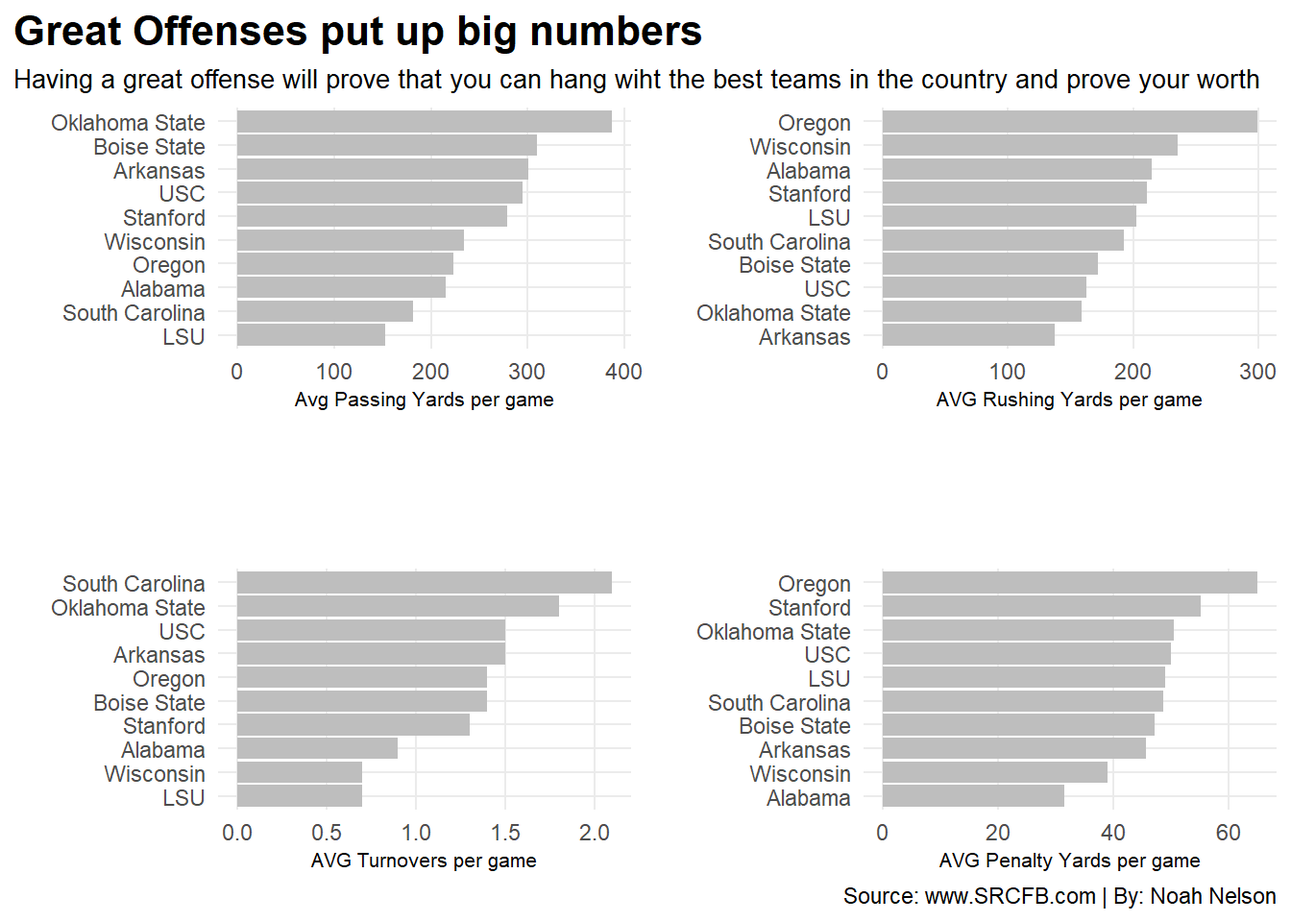
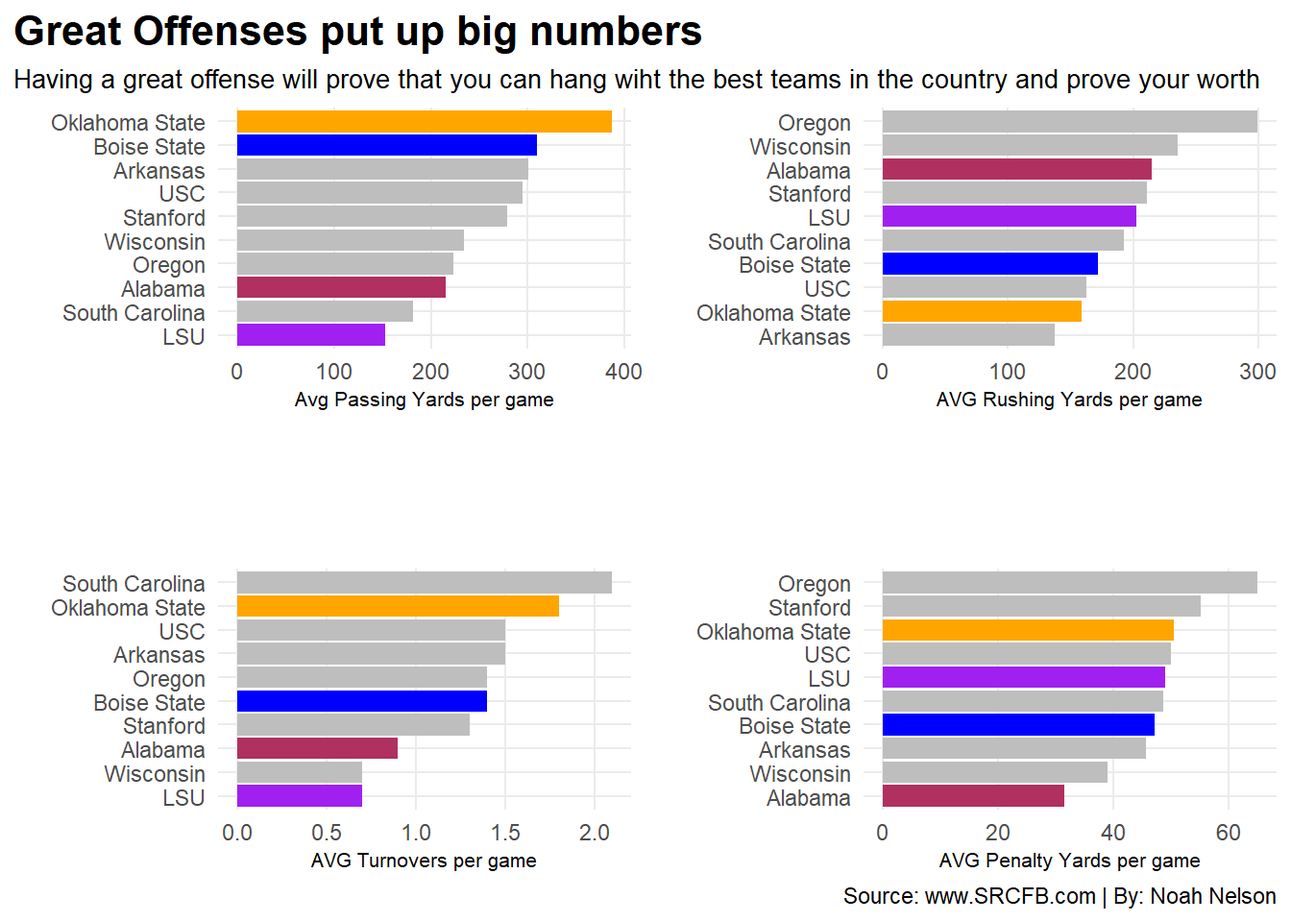
color

diff --git a/posts/The-question-of-the-2011-college-football-season/index.html b/posts/The-question-of-the-2011-college-football-season/index.html
@@ -250,78 +250,106 @@ pre > code.sourceCode > span > a:first-child::before { text-decoration: underlin
 <summary>Code</summary>
 <div class="sourceCode cell-code" id="cb5"><pre class="sourceCode r code-with-copy"><code class="sourceCode r"><span id="cb5-1"><a href="#cb5-1" aria-hidden="true" tabindex="-1"></a>teamoffense <span class="ot">&lt;-</span> <span class="fu">read_csv</span>(<span class="st">"data/teamoffense.csv"</span>)</span>
 <span id="cb5-2"><a href="#cb5-2" aria-hidden="true" tabindex="-1"></a></span>
-<span id="cb5-3"><a href="#cb5-3" aria-hidden="true" tabindex="-1"></a>top10offense<span class="ot">&lt;-</span>teamoffense <span class="sc">|&gt;</span></span>
-<span id="cb5-4"><a href="#cb5-4" aria-hidden="true" tabindex="-1"></a> <span class="fu">filter</span>(SCHOOL<span class="sc">==</span><span class="st">"Alabama"</span><span class="sc">|</span>SCHOOL<span class="sc">==</span><span class="st">"LSU"</span><span class="sc">|</span>SCHOOL<span class="sc">==</span><span class="st">"Oklahoma State"</span><span class="sc">|</span>SCHOOL<span class="sc">==</span><span class="st">"Oregon"</span><span class="sc">|</span>SCHOOL<span class="sc">==</span><span class="st">"Arkansas"</span><span class="sc">|</span>SCHOOL<span class="sc">==</span><span class="st">"USC"</span><span class="sc">|</span>SCHOOL<span class="sc">==</span><span class="st">"Stanford"</span><span class="sc">|</span>SCHOOL<span class="sc">==</span><span class="st">"Boise State"</span><span class="sc">|</span>SCHOOL<span class="sc">==</span><span class="st">"South Carolina"</span><span class="sc">|</span>SCHOOL<span class="sc">==</span><span class="st">"Wisconsin"</span>) </span>
+<span id="cb5-3"><a href="#cb5-3" aria-hidden="true" tabindex="-1"></a>al <span class="ot">&lt;-</span> teamoffense<span class="sc">|&gt;</span></span>
+<span id="cb5-4"><a href="#cb5-4" aria-hidden="true" tabindex="-1"></a>  <span class="fu">filter</span>(SCHOOL <span class="sc">==</span> <span class="st">"Alabama"</span>)</span>
 <span id="cb5-5"><a href="#cb5-5" aria-hidden="true" tabindex="-1"></a></span>
-<span id="cb5-6"><a href="#cb5-6" aria-hidden="true" tabindex="-1"></a>bar1 <span class="ot">&lt;-</span> <span class="fu">ggplot</span>() <span class="sc">+</span> </span>
-<span id="cb5-7"><a href="#cb5-7" aria-hidden="true" tabindex="-1"></a>  <span class="fu">geom_bar</span>(<span class="at">data=</span>top10offense, <span class="fu">aes</span>(<span class="at">x=</span><span class="fu">reorder</span>(SCHOOL,PassingYDS ), <span class="at">weight=</span>PassingYDS), <span class="at">fill=</span><span class="st">"gray"</span>) <span class="sc">+</span> </span>
-<span id="cb5-8"><a href="#cb5-8" aria-hidden="true" tabindex="-1"></a>  <span class="fu">coord_flip</span>() <span class="sc">+</span> </span>
-<span id="cb5-9"><a href="#cb5-9" aria-hidden="true" tabindex="-1"></a>  <span class="fu">labs</span>(<span class="at">title=</span><span class="st">"Great Offenses put up big numbers"</span>, </span>
-<span id="cb5-10"><a href="#cb5-10" aria-hidden="true" tabindex="-1"></a>       <span class="at">subtitle =</span> <span class="st">"Having a great offense will prove that you can hang wiht the best teams in the country and prove your worth"</span>,  </span>
-<span id="cb5-11"><a href="#cb5-11" aria-hidden="true" tabindex="-1"></a>       <span class="at">x=</span><span class="st">""</span>, <span class="at">y=</span><span class="st">"Avg Passing Yards per game"</span>, </span>
-<span id="cb5-12"><a href="#cb5-12" aria-hidden="true" tabindex="-1"></a>       <span class="at">caption =</span> <span class="st">""</span>) <span class="sc">+</span> </span>
-<span id="cb5-13"><a href="#cb5-13" aria-hidden="true" tabindex="-1"></a>  <span class="fu">theme_minimal</span>() <span class="sc">+</span> </span>
-<span id="cb5-14"><a href="#cb5-14" aria-hidden="true" tabindex="-1"></a>  <span class="fu">theme</span>(</span>
-<span id="cb5-15"><a href="#cb5-15" aria-hidden="true" tabindex="-1"></a>    <span class="at">plot.title =</span> <span class="fu">element_text</span>(<span class="at">size =</span> <span class="dv">16</span>, <span class="at">face =</span> <span class="st">"bold"</span>),</span>
-<span id="cb5-16"><a href="#cb5-16" aria-hidden="true" tabindex="-1"></a>    <span class="at">axis.title =</span> <span class="fu">element_text</span>(<span class="at">size =</span> <span class="dv">8</span>), </span>
-<span id="cb5-17"><a href="#cb5-17" aria-hidden="true" tabindex="-1"></a>    <span class="at">plot.subtitle =</span> <span class="fu">element_text</span>(<span class="at">size=</span><span class="dv">10</span>), </span>
-<span id="cb5-18"><a href="#cb5-18" aria-hidden="true" tabindex="-1"></a>    <span class="at">panel.grid.minor =</span> <span class="fu">element_blank</span>(),</span>
-<span id="cb5-19"><a href="#cb5-19" aria-hidden="true" tabindex="-1"></a>    <span class="at">plot.title.position =</span> <span class="st">"plot"</span></span>
-<span id="cb5-20"><a href="#cb5-20" aria-hidden="true" tabindex="-1"></a>    )</span>
-<span id="cb5-21"><a href="#cb5-21" aria-hidden="true" tabindex="-1"></a></span>
-<span id="cb5-22"><a href="#cb5-22" aria-hidden="true" tabindex="-1"></a></span>
-<span id="cb5-23"><a href="#cb5-23" aria-hidden="true" tabindex="-1"></a>bar2 <span class="ot">&lt;-</span> <span class="fu">ggplot</span>() <span class="sc">+</span> </span>
-<span id="cb5-24"><a href="#cb5-24" aria-hidden="true" tabindex="-1"></a>  <span class="fu">geom_bar</span>(<span class="at">data=</span>top10offense, <span class="fu">aes</span>(<span class="at">x=</span><span class="fu">reorder</span>(SCHOOL, RushingYDS),</span>
-<span id="cb5-25"><a href="#cb5-25" aria-hidden="true" tabindex="-1"></a><span class="at">weight=</span>RushingYDS), <span class="at">fill=</span><span class="st">"gray"</span>) <span class="sc">+</span></span>
-<span id="cb5-26"><a href="#cb5-26" aria-hidden="true" tabindex="-1"></a>  <span class="fu">coord_flip</span>()<span class="sc">+</span> </span>
-<span id="cb5-27"><a href="#cb5-27" aria-hidden="true" tabindex="-1"></a>  <span class="fu">labs</span>(<span class="at">title =</span> <span class="st">""</span>, </span>
-<span id="cb5-28"><a href="#cb5-28" aria-hidden="true" tabindex="-1"></a>       <span class="at">subtitle=</span> <span class="st">""</span>, </span>
-<span id="cb5-29"><a href="#cb5-29" aria-hidden="true" tabindex="-1"></a>       <span class="at">x=</span><span class="st">""</span>, <span class="at">y=</span><span class="st">"AVG Rushing Yards per game"</span>,  </span>
-<span id="cb5-30"><a href="#cb5-30" aria-hidden="true" tabindex="-1"></a>       <span class="at">caption=</span><span class="st">""</span>) <span class="sc">+</span> </span>
-<span id="cb5-31"><a href="#cb5-31" aria-hidden="true" tabindex="-1"></a>  <span class="fu">theme_minimal</span>() <span class="sc">+</span> </span>
-<span id="cb5-32"><a href="#cb5-32" aria-hidden="true" tabindex="-1"></a>  <span class="fu">theme</span>(</span>
-<span id="cb5-33"><a href="#cb5-33" aria-hidden="true" tabindex="-1"></a>    <span class="at">plot.title =</span> <span class="fu">element_text</span>(<span class="at">size =</span> <span class="dv">16</span>, <span class="at">face =</span> <span class="st">"bold"</span>),</span>
-<span id="cb5-34"><a href="#cb5-34" aria-hidden="true" tabindex="-1"></a>    <span class="at">axis.title =</span> <span class="fu">element_text</span>(<span class="at">size =</span> <span class="dv">8</span>), </span>
-<span id="cb5-35"><a href="#cb5-35" aria-hidden="true" tabindex="-1"></a>    <span class="at">plot.subtitle =</span> <span class="fu">element_text</span>(<span class="at">size=</span><span class="dv">10</span>), </span>
-<span id="cb5-36"><a href="#cb5-36" aria-hidden="true" tabindex="-1"></a>    <span class="at">panel.grid.minor =</span> <span class="fu">element_blank</span>(),</span>
-<span id="cb5-37"><a href="#cb5-37" aria-hidden="true" tabindex="-1"></a>    <span class="at">plot.title.position =</span> <span class="st">"plot"</span></span>
-<span id="cb5-38"><a href="#cb5-38" aria-hidden="true" tabindex="-1"></a>    )</span>
-<span id="cb5-39"><a href="#cb5-39" aria-hidden="true" tabindex="-1"></a></span>
-<span id="cb5-40"><a href="#cb5-40" aria-hidden="true" tabindex="-1"></a></span>
-<span id="cb5-41"><a href="#cb5-41" aria-hidden="true" tabindex="-1"></a>bar3 <span class="ot">&lt;-</span> <span class="fu">ggplot</span>() <span class="sc">+</span> </span>
-<span id="cb5-42"><a href="#cb5-42" aria-hidden="true" tabindex="-1"></a>  <span class="fu">geom_bar</span>(<span class="at">data=</span>top10offense, <span class="fu">aes</span>(<span class="at">x=</span><span class="fu">reorder</span>(SCHOOL, TurnoversPERG), <span class="at">weight=</span>TurnoversPERG), <span class="at">fill=</span><span class="st">"gray"</span>) <span class="sc">+</span> </span>
-<span id="cb5-43"><a href="#cb5-43" aria-hidden="true" tabindex="-1"></a>  <span class="fu">coord_flip</span>()<span class="sc">+</span> </span>
-<span id="cb5-44"><a href="#cb5-44" aria-hidden="true" tabindex="-1"></a>  <span class="fu">labs</span>(<span class="at">title =</span> <span class="st">""</span>, </span>
-<span id="cb5-45"><a href="#cb5-45" aria-hidden="true" tabindex="-1"></a>       <span class="at">subtitle=</span> <span class="st">""</span>, </span>
-<span id="cb5-46"><a href="#cb5-46" aria-hidden="true" tabindex="-1"></a>       <span class="at">x=</span><span class="st">""</span>, <span class="at">y=</span><span class="st">"AVG Turnovers per game"</span>,  </span>
-<span id="cb5-47"><a href="#cb5-47" aria-hidden="true" tabindex="-1"></a>       <span class="at">caption=</span><span class="st">""</span>) <span class="sc">+</span> </span>
-<span id="cb5-48"><a href="#cb5-48" aria-hidden="true" tabindex="-1"></a>  <span class="fu">theme_minimal</span>() <span class="sc">+</span> </span>
-<span id="cb5-49"><a href="#cb5-49" aria-hidden="true" tabindex="-1"></a>  <span class="fu">theme</span>(</span>
-<span id="cb5-50"><a href="#cb5-50" aria-hidden="true" tabindex="-1"></a>    <span class="at">plot.title =</span> <span class="fu">element_text</span>(<span class="at">size =</span> <span class="dv">16</span>, <span class="at">face =</span> <span class="st">"bold"</span>),</span>
-<span id="cb5-51"><a href="#cb5-51" aria-hidden="true" tabindex="-1"></a>    <span class="at">axis.title =</span> <span class="fu">element_text</span>(<span class="at">size =</span> <span class="dv">8</span>), </span>
-<span id="cb5-52"><a href="#cb5-52" aria-hidden="true" tabindex="-1"></a>    <span class="at">plot.subtitle =</span> <span class="fu">element_text</span>(<span class="at">size=</span><span class="dv">10</span>), </span>
-<span id="cb5-53"><a href="#cb5-53" aria-hidden="true" tabindex="-1"></a>    <span class="at">panel.grid.minor =</span> <span class="fu">element_blank</span>(),</span>
-<span id="cb5-54"><a href="#cb5-54" aria-hidden="true" tabindex="-1"></a>    <span class="at">plot.title.position =</span> <span class="st">"plot"</span></span>
-<span id="cb5-55"><a href="#cb5-55" aria-hidden="true" tabindex="-1"></a>    )</span>
-<span id="cb5-56"><a href="#cb5-56" aria-hidden="true" tabindex="-1"></a></span>
-<span id="cb5-57"><a href="#cb5-57" aria-hidden="true" tabindex="-1"></a></span>
-<span id="cb5-58"><a href="#cb5-58" aria-hidden="true" tabindex="-1"></a>bar4 <span class="ot">&lt;-</span> <span class="fu">ggplot</span>() <span class="sc">+</span> </span>
-<span id="cb5-59"><a href="#cb5-59" aria-hidden="true" tabindex="-1"></a>  <span class="fu">geom_bar</span>(<span class="at">data=</span>top10offense, <span class="fu">aes</span>(<span class="at">x=</span><span class="fu">reorder</span>(SCHOOL, PenaltiesYDSG), <span class="at">weight=</span>PenaltiesYDSG), <span class="at">fill=</span><span class="st">"gray"</span>) <span class="sc">+</span> </span>
-<span id="cb5-60"><a href="#cb5-60" aria-hidden="true" tabindex="-1"></a>  <span class="fu">coord_flip</span>()<span class="sc">+</span> </span>
-<span id="cb5-61"><a href="#cb5-61" aria-hidden="true" tabindex="-1"></a>  <span class="fu">labs</span>(<span class="at">title =</span> <span class="st">""</span>, </span>
-<span id="cb5-62"><a href="#cb5-62" aria-hidden="true" tabindex="-1"></a>       <span class="at">subtitle=</span> <span class="st">""</span>, </span>
-<span id="cb5-63"><a href="#cb5-63" aria-hidden="true" tabindex="-1"></a>       <span class="at">x=</span><span class="st">""</span>, <span class="at">y=</span><span class="st">"AVG Penalty Yards per game"</span>,  </span>
-<span id="cb5-64"><a href="#cb5-64" aria-hidden="true" tabindex="-1"></a>       <span class="at">caption=</span><span class="st">"Source: www.SRCFB.com | By: Noah Nelson"</span>) <span class="sc">+</span> </span>
-<span id="cb5-65"><a href="#cb5-65" aria-hidden="true" tabindex="-1"></a>  <span class="fu">theme_minimal</span>() <span class="sc">+</span> </span>
-<span id="cb5-66"><a href="#cb5-66" aria-hidden="true" tabindex="-1"></a>  <span class="fu">theme</span>(</span>
-<span id="cb5-67"><a href="#cb5-67" aria-hidden="true" tabindex="-1"></a>    <span class="at">plot.title =</span> <span class="fu">element_text</span>(<span class="at">size =</span> <span class="dv">16</span>, <span class="at">face =</span> <span class="st">"bold"</span>),</span>
-<span id="cb5-68"><a href="#cb5-68" aria-hidden="true" tabindex="-1"></a>    <span class="at">axis.title =</span> <span class="fu">element_text</span>(<span class="at">size =</span> <span class="dv">8</span>), </span>
-<span id="cb5-69"><a href="#cb5-69" aria-hidden="true" tabindex="-1"></a>    <span class="at">plot.subtitle =</span> <span class="fu">element_text</span>(<span class="at">size=</span><span class="dv">10</span>), </span>
-<span id="cb5-70"><a href="#cb5-70" aria-hidden="true" tabindex="-1"></a>    <span class="at">panel.grid.minor =</span> <span class="fu">element_blank</span>(),</span>
-<span id="cb5-71"><a href="#cb5-71" aria-hidden="true" tabindex="-1"></a>    <span class="at">plot.title.position =</span> <span class="st">"plot"</span></span>
-<span id="cb5-72"><a href="#cb5-72" aria-hidden="true" tabindex="-1"></a>    )</span>
-<span id="cb5-73"><a href="#cb5-73" aria-hidden="true" tabindex="-1"></a></span>
-<span id="cb5-74"><a href="#cb5-74" aria-hidden="true" tabindex="-1"></a><span class="fu">plot_grid</span>(bar1, bar2, bar3, bar4) </span></code><button title="Copy to Clipboard" class="code-copy-button"><i class="bi"></i></button></pre></div>
+<span id="cb5-6"><a href="#cb5-6" aria-hidden="true" tabindex="-1"></a>lsu <span class="ot">&lt;-</span> teamoffense<span class="sc">|&gt;</span></span>
+<span id="cb5-7"><a href="#cb5-7" aria-hidden="true" tabindex="-1"></a>  <span class="fu">filter</span>(SCHOOL <span class="sc">==</span> <span class="st">"LSU"</span>)</span>
+<span id="cb5-8"><a href="#cb5-8" aria-hidden="true" tabindex="-1"></a></span>
+<span id="cb5-9"><a href="#cb5-9" aria-hidden="true" tabindex="-1"></a>oks <span class="ot">&lt;-</span> teamoffense<span class="sc">|&gt;</span></span>
+<span id="cb5-10"><a href="#cb5-10" aria-hidden="true" tabindex="-1"></a>  <span class="fu">filter</span>(SCHOOL <span class="sc">==</span> <span class="st">"Oklahoma State"</span>)</span>
+<span id="cb5-11"><a href="#cb5-11" aria-hidden="true" tabindex="-1"></a></span>
+<span id="cb5-12"><a href="#cb5-12" aria-hidden="true" tabindex="-1"></a>bsu <span class="ot">&lt;-</span> teamoffense<span class="sc">|&gt;</span></span>
+<span id="cb5-13"><a href="#cb5-13" aria-hidden="true" tabindex="-1"></a>  <span class="fu">filter</span>(SCHOOL <span class="sc">==</span> <span class="st">"Boise State"</span>)</span>
+<span id="cb5-14"><a href="#cb5-14" aria-hidden="true" tabindex="-1"></a></span>
+<span id="cb5-15"><a href="#cb5-15" aria-hidden="true" tabindex="-1"></a>top10offense<span class="ot">&lt;-</span>teamoffense <span class="sc">|&gt;</span></span>
+<span id="cb5-16"><a href="#cb5-16" aria-hidden="true" tabindex="-1"></a> <span class="fu">filter</span>(SCHOOL<span class="sc">==</span><span class="st">"Alabama"</span><span class="sc">|</span>SCHOOL<span class="sc">==</span><span class="st">"LSU"</span><span class="sc">|</span>SCHOOL<span class="sc">==</span><span class="st">"Oklahoma State"</span><span class="sc">|</span>SCHOOL<span class="sc">==</span><span class="st">"Oregon"</span><span class="sc">|</span>SCHOOL<span class="sc">==</span><span class="st">"Arkansas"</span><span class="sc">|</span>SCHOOL<span class="sc">==</span><span class="st">"USC"</span><span class="sc">|</span>SCHOOL<span class="sc">==</span><span class="st">"Stanford"</span><span class="sc">|</span>SCHOOL<span class="sc">==</span><span class="st">"Boise State"</span><span class="sc">|</span>SCHOOL<span class="sc">==</span><span class="st">"South Carolina"</span><span class="sc">|</span>SCHOOL<span class="sc">==</span><span class="st">"Wisconsin"</span>) </span>
+<span id="cb5-17"><a href="#cb5-17" aria-hidden="true" tabindex="-1"></a></span>
+<span id="cb5-18"><a href="#cb5-18" aria-hidden="true" tabindex="-1"></a>bar1 <span class="ot">&lt;-</span> <span class="fu">ggplot</span>() <span class="sc">+</span> </span>
+<span id="cb5-19"><a href="#cb5-19" aria-hidden="true" tabindex="-1"></a>  <span class="fu">geom_bar</span>(<span class="at">data=</span>top10offense, <span class="fu">aes</span>(<span class="at">x=</span><span class="fu">reorder</span>(SCHOOL,PassingYDS ), <span class="at">weight=</span>PassingYDS), <span class="at">fill=</span><span class="st">"gray"</span>) <span class="sc">+</span> </span>
+<span id="cb5-20"><a href="#cb5-20" aria-hidden="true" tabindex="-1"></a>    <span class="fu">geom_bar</span>(<span class="at">data=</span>al, <span class="fu">aes</span>(<span class="at">x=</span><span class="fu">reorder</span>(SCHOOL,PassingYDS ), <span class="at">weight=</span>PassingYDS), <span class="at">fill=</span><span class="st">"maroon"</span>) <span class="sc">+</span> </span>
+<span id="cb5-21"><a href="#cb5-21" aria-hidden="true" tabindex="-1"></a>    <span class="fu">geom_bar</span>(<span class="at">data=</span>bsu, <span class="fu">aes</span>(<span class="at">x=</span><span class="fu">reorder</span>(SCHOOL,PassingYDS ), <span class="at">weight=</span>PassingYDS), <span class="at">fill=</span><span class="st">"blue"</span>) <span class="sc">+</span> </span>
+<span id="cb5-22"><a href="#cb5-22" aria-hidden="true" tabindex="-1"></a>    <span class="fu">geom_bar</span>(<span class="at">data=</span>lsu, <span class="fu">aes</span>(<span class="at">x=</span><span class="fu">reorder</span>(SCHOOL,PassingYDS ), <span class="at">weight=</span>PassingYDS), <span class="at">fill=</span><span class="st">"purple"</span>) <span class="sc">+</span> </span>
+<span id="cb5-23"><a href="#cb5-23" aria-hidden="true" tabindex="-1"></a>    <span class="fu">geom_bar</span>(<span class="at">data=</span>oks, <span class="fu">aes</span>(<span class="at">x=</span><span class="fu">reorder</span>(SCHOOL,PassingYDS ), <span class="at">weight=</span>PassingYDS), <span class="at">fill=</span><span class="st">"orange"</span>) <span class="sc">+</span> </span>
+<span id="cb5-24"><a href="#cb5-24" aria-hidden="true" tabindex="-1"></a>  <span class="fu">coord_flip</span>() <span class="sc">+</span> </span>
+<span id="cb5-25"><a href="#cb5-25" aria-hidden="true" tabindex="-1"></a>  <span class="fu">labs</span>(<span class="at">title=</span><span class="st">"Great Offenses put up big numbers"</span>, </span>
+<span id="cb5-26"><a href="#cb5-26" aria-hidden="true" tabindex="-1"></a>       <span class="at">subtitle =</span> <span class="st">"Having a great offense will prove that you can hang wiht the best teams in the country and prove your worth"</span>,  </span>
+<span id="cb5-27"><a href="#cb5-27" aria-hidden="true" tabindex="-1"></a>       <span class="at">x=</span><span class="st">""</span>, <span class="at">y=</span><span class="st">"Avg Passing Yards per game"</span>, </span>
+<span id="cb5-28"><a href="#cb5-28" aria-hidden="true" tabindex="-1"></a>       <span class="at">caption =</span> <span class="st">""</span>) <span class="sc">+</span> </span>
+<span id="cb5-29"><a href="#cb5-29" aria-hidden="true" tabindex="-1"></a>  <span class="fu">theme_minimal</span>() <span class="sc">+</span> </span>
+<span id="cb5-30"><a href="#cb5-30" aria-hidden="true" tabindex="-1"></a>  <span class="fu">theme</span>(</span>
+<span id="cb5-31"><a href="#cb5-31" aria-hidden="true" tabindex="-1"></a>    <span class="at">plot.title =</span> <span class="fu">element_text</span>(<span class="at">size =</span> <span class="dv">16</span>, <span class="at">face =</span> <span class="st">"bold"</span>),</span>
+<span id="cb5-32"><a href="#cb5-32" aria-hidden="true" tabindex="-1"></a>    <span class="at">axis.title =</span> <span class="fu">element_text</span>(<span class="at">size =</span> <span class="dv">8</span>), </span>
+<span id="cb5-33"><a href="#cb5-33" aria-hidden="true" tabindex="-1"></a>    <span class="at">plot.subtitle =</span> <span class="fu">element_text</span>(<span class="at">size=</span><span class="dv">10</span>), </span>
+<span id="cb5-34"><a href="#cb5-34" aria-hidden="true" tabindex="-1"></a>    <span class="at">panel.grid.minor =</span> <span class="fu">element_blank</span>(),</span>
+<span id="cb5-35"><a href="#cb5-35" aria-hidden="true" tabindex="-1"></a>    <span class="at">plot.title.position =</span> <span class="st">"plot"</span></span>
+<span id="cb5-36"><a href="#cb5-36" aria-hidden="true" tabindex="-1"></a>    )</span>
+<span id="cb5-37"><a href="#cb5-37" aria-hidden="true" tabindex="-1"></a></span>
+<span id="cb5-38"><a href="#cb5-38" aria-hidden="true" tabindex="-1"></a></span>
+<span id="cb5-39"><a href="#cb5-39" aria-hidden="true" tabindex="-1"></a>bar2 <span class="ot">&lt;-</span> <span class="fu">ggplot</span>() <span class="sc">+</span> </span>
+<span id="cb5-40"><a href="#cb5-40" aria-hidden="true" tabindex="-1"></a>  <span class="fu">geom_bar</span>(<span class="at">data=</span>top10offense, <span class="fu">aes</span>(<span class="at">x=</span><span class="fu">reorder</span>(SCHOOL, RushingYDS),</span>
+<span id="cb5-41"><a href="#cb5-41" aria-hidden="true" tabindex="-1"></a><span class="at">weight=</span>RushingYDS), <span class="at">fill=</span><span class="st">"gray"</span>) <span class="sc">+</span></span>
+<span id="cb5-42"><a href="#cb5-42" aria-hidden="true" tabindex="-1"></a>   <span class="fu">geom_bar</span>(<span class="at">data=</span>al, <span class="fu">aes</span>(<span class="at">x=</span><span class="fu">reorder</span>(SCHOOL,RushingYDS ), <span class="at">weight=</span>RushingYDS), <span class="at">fill=</span><span class="st">"maroon"</span>) <span class="sc">+</span> </span>
+<span id="cb5-43"><a href="#cb5-43" aria-hidden="true" tabindex="-1"></a>    <span class="fu">geom_bar</span>(<span class="at">data=</span>bsu, <span class="fu">aes</span>(<span class="at">x=</span><span class="fu">reorder</span>(SCHOOL,RushingYDS ), <span class="at">weight=</span>RushingYDS), <span class="at">fill=</span><span class="st">"blue"</span>) <span class="sc">+</span> </span>
+<span id="cb5-44"><a href="#cb5-44" aria-hidden="true" tabindex="-1"></a>    <span class="fu">geom_bar</span>(<span class="at">data=</span>lsu, <span class="fu">aes</span>(<span class="at">x=</span><span class="fu">reorder</span>(SCHOOL,RushingYDS ), <span class="at">weight=</span>RushingYDS), <span class="at">fill=</span><span class="st">"purple"</span>) <span class="sc">+</span> </span>
+<span id="cb5-45"><a href="#cb5-45" aria-hidden="true" tabindex="-1"></a>    <span class="fu">geom_bar</span>(<span class="at">data=</span>oks, <span class="fu">aes</span>(<span class="at">x=</span><span class="fu">reorder</span>(SCHOOL,RushingYDS ), <span class="at">weight=</span>RushingYDS), <span class="at">fill=</span><span class="st">"orange"</span>) <span class="sc">+</span> </span>
+<span id="cb5-46"><a href="#cb5-46" aria-hidden="true" tabindex="-1"></a>  <span class="fu">coord_flip</span>()<span class="sc">+</span> </span>
+<span id="cb5-47"><a href="#cb5-47" aria-hidden="true" tabindex="-1"></a>  <span class="fu">labs</span>(<span class="at">title =</span> <span class="st">""</span>, </span>
+<span id="cb5-48"><a href="#cb5-48" aria-hidden="true" tabindex="-1"></a>       <span class="at">subtitle=</span> <span class="st">""</span>, </span>
+<span id="cb5-49"><a href="#cb5-49" aria-hidden="true" tabindex="-1"></a>       <span class="at">x=</span><span class="st">""</span>, <span class="at">y=</span><span class="st">"AVG Rushing Yards per game"</span>,  </span>
+<span id="cb5-50"><a href="#cb5-50" aria-hidden="true" tabindex="-1"></a>       <span class="at">caption=</span><span class="st">""</span>) <span class="sc">+</span> </span>
+<span id="cb5-51"><a href="#cb5-51" aria-hidden="true" tabindex="-1"></a>  <span class="fu">theme_minimal</span>() <span class="sc">+</span> </span>
+<span id="cb5-52"><a href="#cb5-52" aria-hidden="true" tabindex="-1"></a>  <span class="fu">theme</span>(</span>
+<span id="cb5-53"><a href="#cb5-53" aria-hidden="true" tabindex="-1"></a>    <span class="at">plot.title =</span> <span class="fu">element_text</span>(<span class="at">size =</span> <span class="dv">16</span>, <span class="at">face =</span> <span class="st">"bold"</span>),</span>
+<span id="cb5-54"><a href="#cb5-54" aria-hidden="true" tabindex="-1"></a>    <span class="at">axis.title =</span> <span class="fu">element_text</span>(<span class="at">size =</span> <span class="dv">8</span>), </span>
+<span id="cb5-55"><a href="#cb5-55" aria-hidden="true" tabindex="-1"></a>    <span class="at">plot.subtitle =</span> <span class="fu">element_text</span>(<span class="at">size=</span><span class="dv">10</span>), </span>
+<span id="cb5-56"><a href="#cb5-56" aria-hidden="true" tabindex="-1"></a>    <span class="at">panel.grid.minor =</span> <span class="fu">element_blank</span>(),</span>
+<span id="cb5-57"><a href="#cb5-57" aria-hidden="true" tabindex="-1"></a>    <span class="at">plot.title.position =</span> <span class="st">"plot"</span></span>
+<span id="cb5-58"><a href="#cb5-58" aria-hidden="true" tabindex="-1"></a>    )</span>
+<span id="cb5-59"><a href="#cb5-59" aria-hidden="true" tabindex="-1"></a></span>
+<span id="cb5-60"><a href="#cb5-60" aria-hidden="true" tabindex="-1"></a></span>
+<span id="cb5-61"><a href="#cb5-61" aria-hidden="true" tabindex="-1"></a>bar3 <span class="ot">&lt;-</span> <span class="fu">ggplot</span>() <span class="sc">+</span> </span>
+<span id="cb5-62"><a href="#cb5-62" aria-hidden="true" tabindex="-1"></a>  <span class="fu">geom_bar</span>(<span class="at">data=</span>top10offense, <span class="fu">aes</span>(<span class="at">x=</span><span class="fu">reorder</span>(SCHOOL, TurnoversPERG), <span class="at">weight=</span>TurnoversPERG), <span class="at">fill=</span><span class="st">"gray"</span>) <span class="sc">+</span> </span>
+<span id="cb5-63"><a href="#cb5-63" aria-hidden="true" tabindex="-1"></a>  <span class="fu">geom_bar</span>(<span class="at">data=</span>al, <span class="fu">aes</span>(<span class="at">x=</span><span class="fu">reorder</span>(SCHOOL,TurnoversPERG ), <span class="at">weight=</span>TurnoversPERG), <span class="at">fill=</span><span class="st">"maroon"</span>) <span class="sc">+</span> </span>
+<span id="cb5-64"><a href="#cb5-64" aria-hidden="true" tabindex="-1"></a>    <span class="fu">geom_bar</span>(<span class="at">data=</span>bsu, <span class="fu">aes</span>(<span class="at">x=</span><span class="fu">reorder</span>(SCHOOL,TurnoversPERG ), <span class="at">weight=</span>TurnoversPERG), <span class="at">fill=</span><span class="st">"blue"</span>) <span class="sc">+</span> </span>
+<span id="cb5-65"><a href="#cb5-65" aria-hidden="true" tabindex="-1"></a>    <span class="fu">geom_bar</span>(<span class="at">data=</span>lsu, <span class="fu">aes</span>(<span class="at">x=</span><span class="fu">reorder</span>(SCHOOL,TurnoversPERG ), <span class="at">weight=</span>TurnoversPERG), <span class="at">fill=</span><span class="st">"purple"</span>) <span class="sc">+</span> </span>
+<span id="cb5-66"><a href="#cb5-66" aria-hidden="true" tabindex="-1"></a>    <span class="fu">geom_bar</span>(<span class="at">data=</span>oks, <span class="fu">aes</span>(<span class="at">x=</span><span class="fu">reorder</span>(SCHOOL,TurnoversPERG ), <span class="at">weight=</span>TurnoversPERG), <span class="at">fill=</span><span class="st">"orange"</span>) <span class="sc">+</span> </span>
+<span id="cb5-67"><a href="#cb5-67" aria-hidden="true" tabindex="-1"></a>  <span class="fu">coord_flip</span>()<span class="sc">+</span> </span>
+<span id="cb5-68"><a href="#cb5-68" aria-hidden="true" tabindex="-1"></a>  <span class="fu">labs</span>(<span class="at">title =</span> <span class="st">""</span>, </span>
+<span id="cb5-69"><a href="#cb5-69" aria-hidden="true" tabindex="-1"></a>       <span class="at">subtitle=</span> <span class="st">""</span>, </span>
+<span id="cb5-70"><a href="#cb5-70" aria-hidden="true" tabindex="-1"></a>       <span class="at">x=</span><span class="st">""</span>, <span class="at">y=</span><span class="st">"AVG Turnovers per game"</span>,  </span>
+<span id="cb5-71"><a href="#cb5-71" aria-hidden="true" tabindex="-1"></a>       <span class="at">caption=</span><span class="st">""</span>) <span class="sc">+</span> </span>
+<span id="cb5-72"><a href="#cb5-72" aria-hidden="true" tabindex="-1"></a>  <span class="fu">theme_minimal</span>() <span class="sc">+</span> </span>
+<span id="cb5-73"><a href="#cb5-73" aria-hidden="true" tabindex="-1"></a>  <span class="fu">theme</span>(</span>
+<span id="cb5-74"><a href="#cb5-74" aria-hidden="true" tabindex="-1"></a>    <span class="at">plot.title =</span> <span class="fu">element_text</span>(<span class="at">size =</span> <span class="dv">16</span>, <span class="at">face =</span> <span class="st">"bold"</span>),</span>
+<span id="cb5-75"><a href="#cb5-75" aria-hidden="true" tabindex="-1"></a>    <span class="at">axis.title =</span> <span class="fu">element_text</span>(<span class="at">size =</span> <span class="dv">8</span>), </span>
+<span id="cb5-76"><a href="#cb5-76" aria-hidden="true" tabindex="-1"></a>    <span class="at">plot.subtitle =</span> <span class="fu">element_text</span>(<span class="at">size=</span><span class="dv">10</span>), </span>
+<span id="cb5-77"><a href="#cb5-77" aria-hidden="true" tabindex="-1"></a>    <span class="at">panel.grid.minor =</span> <span class="fu">element_blank</span>(),</span>
+<span id="cb5-78"><a href="#cb5-78" aria-hidden="true" tabindex="-1"></a>    <span class="at">plot.title.position =</span> <span class="st">"plot"</span></span>
+<span id="cb5-79"><a href="#cb5-79" aria-hidden="true" tabindex="-1"></a>    )</span>
+<span id="cb5-80"><a href="#cb5-80" aria-hidden="true" tabindex="-1"></a></span>
+<span id="cb5-81"><a href="#cb5-81" aria-hidden="true" tabindex="-1"></a></span>
+<span id="cb5-82"><a href="#cb5-82" aria-hidden="true" tabindex="-1"></a>bar4 <span class="ot">&lt;-</span> <span class="fu">ggplot</span>() <span class="sc">+</span> </span>
+<span id="cb5-83"><a href="#cb5-83" aria-hidden="true" tabindex="-1"></a>  <span class="fu">geom_bar</span>(<span class="at">data=</span>top10offense, <span class="fu">aes</span>(<span class="at">x=</span><span class="fu">reorder</span>(SCHOOL, PenaltiesYDSG), <span class="at">weight=</span>PenaltiesYDSG), <span class="at">fill=</span><span class="st">"gray"</span>) <span class="sc">+</span> </span>
+<span id="cb5-84"><a href="#cb5-84" aria-hidden="true" tabindex="-1"></a>  <span class="fu">geom_bar</span>(<span class="at">data=</span>al, <span class="fu">aes</span>(<span class="at">x=</span><span class="fu">reorder</span>(SCHOOL,PenaltiesYDSG ), <span class="at">weight=</span>PenaltiesYDSG), <span class="at">fill=</span><span class="st">"maroon"</span>) <span class="sc">+</span> </span>
+<span id="cb5-85"><a href="#cb5-85" aria-hidden="true" tabindex="-1"></a>    <span class="fu">geom_bar</span>(<span class="at">data=</span>bsu, <span class="fu">aes</span>(<span class="at">x=</span><span class="fu">reorder</span>(SCHOOL,PenaltiesYDSG ), <span class="at">weight=</span>PenaltiesYDSG), <span class="at">fill=</span><span class="st">"blue"</span>) <span class="sc">+</span> </span>
+<span id="cb5-86"><a href="#cb5-86" aria-hidden="true" tabindex="-1"></a>    <span class="fu">geom_bar</span>(<span class="at">data=</span>lsu, <span class="fu">aes</span>(<span class="at">x=</span><span class="fu">reorder</span>(SCHOOL,PenaltiesYDSG ), <span class="at">weight=</span>PenaltiesYDSG), <span class="at">fill=</span><span class="st">"purple"</span>) <span class="sc">+</span> </span>
+<span id="cb5-87"><a href="#cb5-87" aria-hidden="true" tabindex="-1"></a>    <span class="fu">geom_bar</span>(<span class="at">data=</span>oks, <span class="fu">aes</span>(<span class="at">x=</span><span class="fu">reorder</span>(SCHOOL,PenaltiesYDSG ), <span class="at">weight=</span>PenaltiesYDSG), <span class="at">fill=</span><span class="st">"orange"</span>) <span class="sc">+</span> </span>
+<span id="cb5-88"><a href="#cb5-88" aria-hidden="true" tabindex="-1"></a>  <span class="fu">coord_flip</span>()<span class="sc">+</span> </span>
+<span id="cb5-89"><a href="#cb5-89" aria-hidden="true" tabindex="-1"></a>  <span class="fu">labs</span>(<span class="at">title =</span> <span class="st">""</span>, </span>
+<span id="cb5-90"><a href="#cb5-90" aria-hidden="true" tabindex="-1"></a>       <span class="at">subtitle=</span> <span class="st">""</span>, </span>
+<span id="cb5-91"><a href="#cb5-91" aria-hidden="true" tabindex="-1"></a>       <span class="at">x=</span><span class="st">""</span>, <span class="at">y=</span><span class="st">"AVG Penalty Yards per game"</span>,  </span>
+<span id="cb5-92"><a href="#cb5-92" aria-hidden="true" tabindex="-1"></a>       <span class="at">caption=</span><span class="st">"Source: www.SRCFB.com | By: Noah Nelson"</span>) <span class="sc">+</span> </span>
+<span id="cb5-93"><a href="#cb5-93" aria-hidden="true" tabindex="-1"></a>  <span class="fu">theme_minimal</span>() <span class="sc">+</span> </span>
+<span id="cb5-94"><a href="#cb5-94" aria-hidden="true" tabindex="-1"></a>  <span class="fu">theme</span>(</span>
+<span id="cb5-95"><a href="#cb5-95" aria-hidden="true" tabindex="-1"></a>    <span class="at">plot.title =</span> <span class="fu">element_text</span>(<span class="at">size =</span> <span class="dv">16</span>, <span class="at">face =</span> <span class="st">"bold"</span>),</span>
+<span id="cb5-96"><a href="#cb5-96" aria-hidden="true" tabindex="-1"></a>    <span class="at">axis.title =</span> <span class="fu">element_text</span>(<span class="at">size =</span> <span class="dv">8</span>), </span>
+<span id="cb5-97"><a href="#cb5-97" aria-hidden="true" tabindex="-1"></a>    <span class="at">plot.subtitle =</span> <span class="fu">element_text</span>(<span class="at">size=</span><span class="dv">10</span>), </span>
+<span id="cb5-98"><a href="#cb5-98" aria-hidden="true" tabindex="-1"></a>    <span class="at">panel.grid.minor =</span> <span class="fu">element_blank</span>(),</span>
+<span id="cb5-99"><a href="#cb5-99" aria-hidden="true" tabindex="-1"></a>    <span class="at">plot.title.position =</span> <span class="st">"plot"</span></span>
+<span id="cb5-100"><a href="#cb5-100" aria-hidden="true" tabindex="-1"></a>    )</span>
+<span id="cb5-101"><a href="#cb5-101" aria-hidden="true" tabindex="-1"></a></span>
+<span id="cb5-102"><a href="#cb5-102" aria-hidden="true" tabindex="-1"></a><span class="fu">plot_grid</span>(bar1, bar2, bar3, bar4) </span></code><button title="Copy to Clipboard" class="code-copy-button"><i class="bi"></i></button></pre></div>
 </details>
 <div class="cell-output-display">
 <div>

diff --git a/index.html b/index.html
@@ -205,7 +205,7 @@ window.Quarto = {
 
 <div class="quarto-listing quarto-listing-container-default" id="listing-listing">
 <div class="list quarto-listing-default">
-<div class="quarto-post image-right" data-index="0" data-categories="Zm9vdGJhbGwsQ29sbGVnZUZvb3RiYWxsLEJDUw==" data-listing-date-sort="1733378400000" data-listing-file-modified-sort="1733710076239" data-listing-date-modified-sort="NaN" data-listing-reading-time-sort="4" data-listing-word-count-sort="615">
+<div class="quarto-post image-right" data-index="0" data-categories="Zm9vdGJhbGwsQ29sbGVnZUZvb3RiYWxsLEJDUw==" data-listing-date-sort="1733378400000" data-listing-file-modified-sort="1733710712969" data-listing-date-modified-sort="NaN" data-listing-reading-time-sort="4" data-listing-word-count-sort="796">
 <div class="thumbnail">
 <p><a href="./posts/The-question-of-the-2011-college-football-season/index.html" class="no-external"></a></p><a href="./posts/The-question-of-the-2011-college-football-season/index.html" class="no-external">
 <p class="card-img-top"><img src="posts\The-question-of-the-2011-college-football-season\index_files\figure-html\unnamed-chunk-1-1.png"  class="thumbnail-image card-img"/></p>
